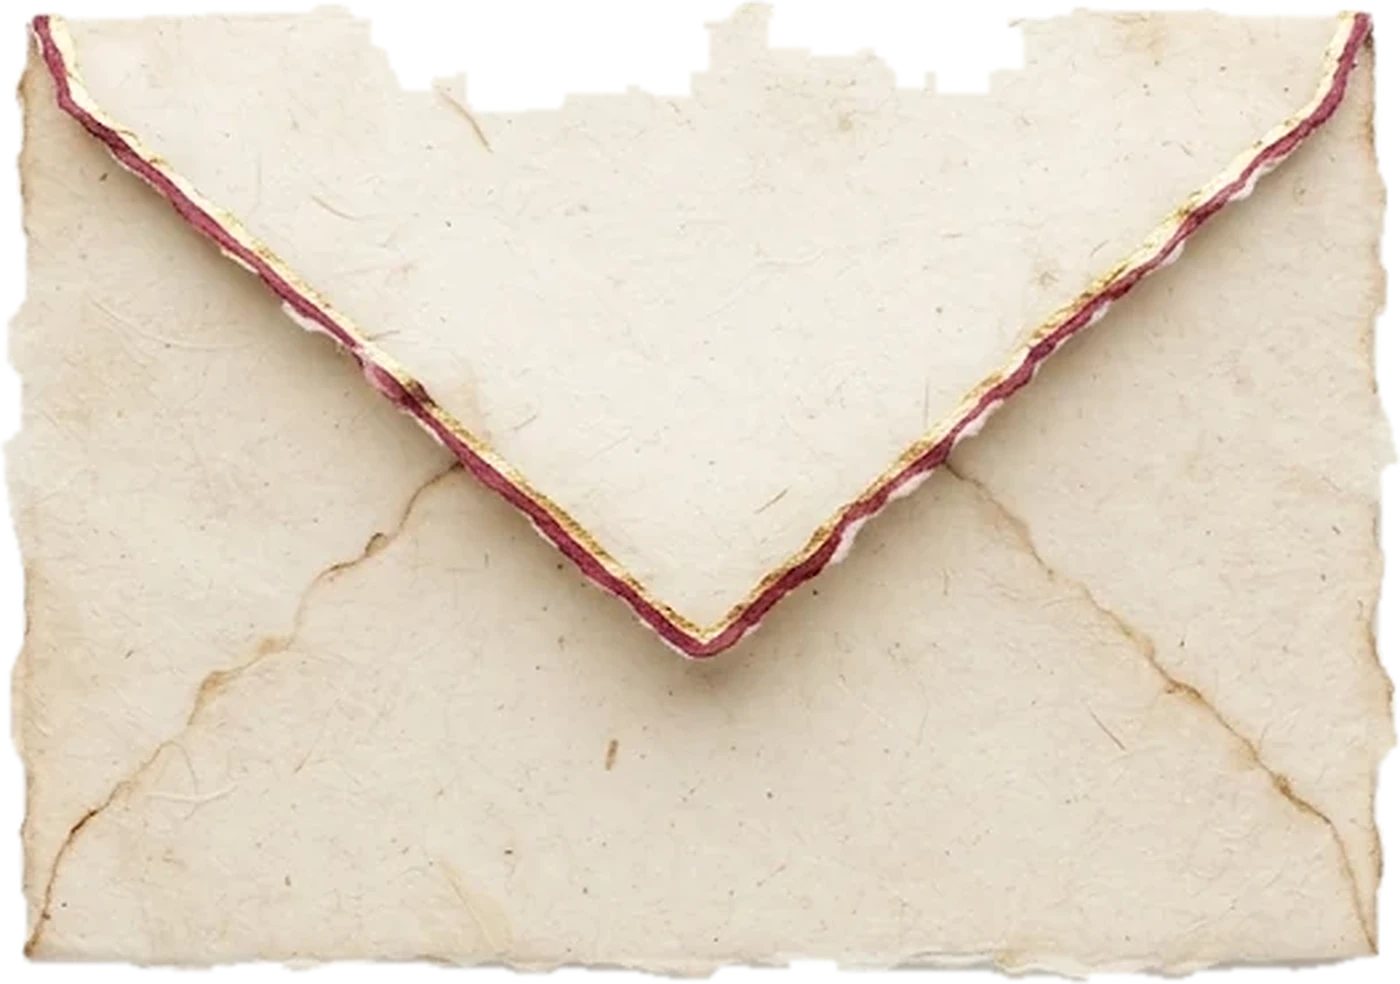
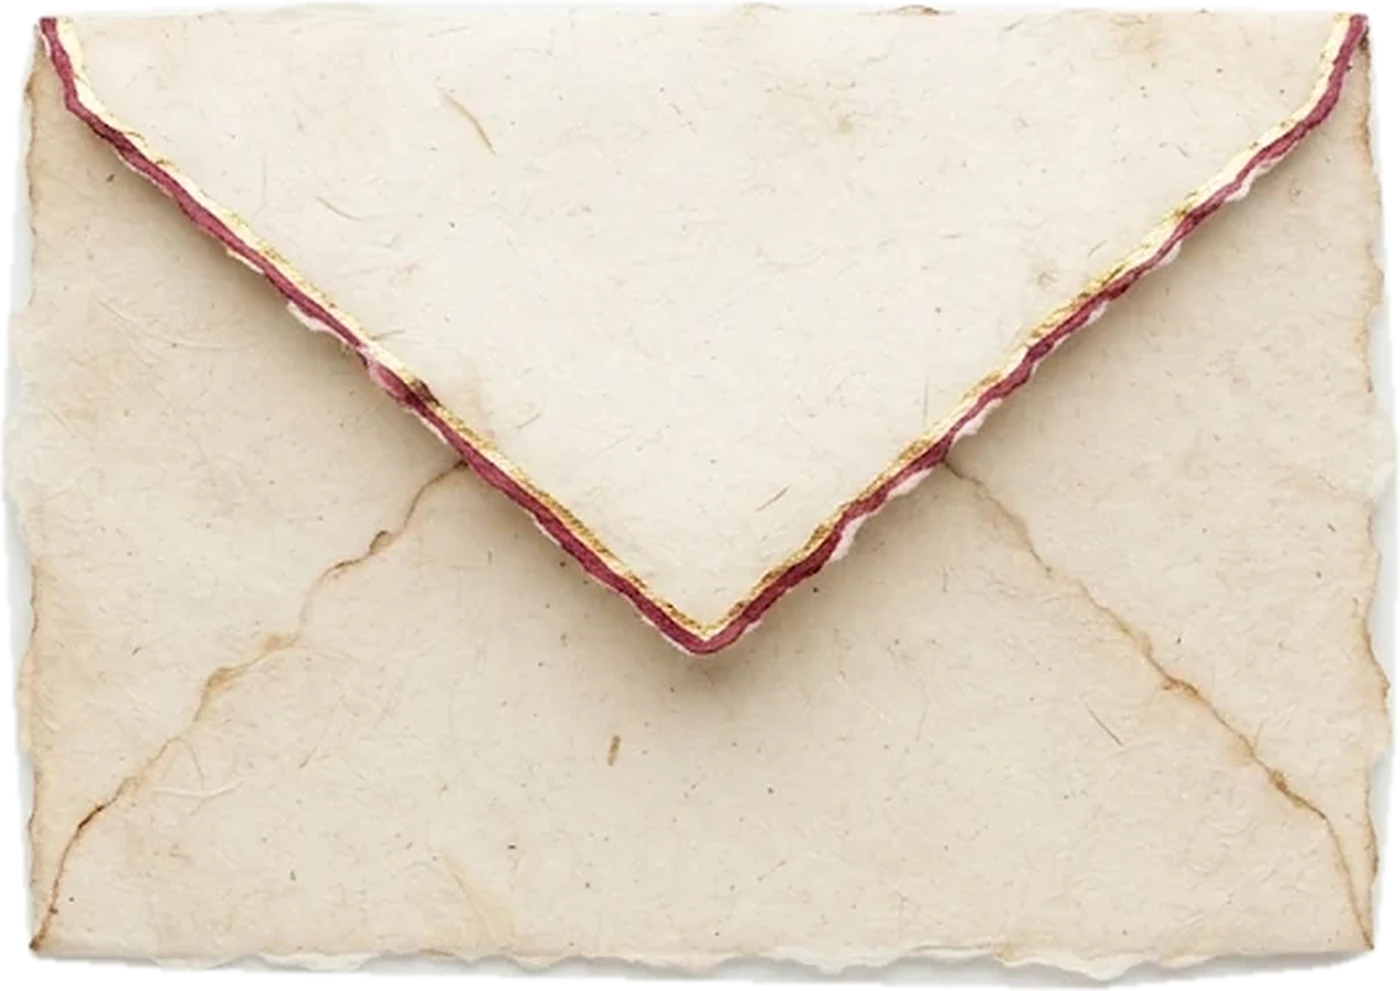
Citadelle : enveloppe de parchemin redétourée (le bord du haut n'est plus grignoté)
Claude-Session: https://claude.ai/code/session_01F2UgnuQq11Y7sRNXVNw92i

diff --git a/citadelle/faire-part.html b/citadelle/faire-part.html
@@ -42,9 +42,9 @@ body.ferme{overflow:hidden}
 
 </style>
 </head>
-<body class="ferme" data-date="2027-09-25T15:00:00+02:00" data-evenement="Mariage Aliénor &amp; Gauthier" data-ville="Périgord" data-titre-std="Aliénor &amp; Gauthier — Save the date (démonstration)" data-blocs="grappe" data-titres="grand" data-images="pleine" data-revele="zoom" data-paral="vertical" data-cadre="arche" data-prog="cartes" data-lieu="rond" data-tenue="classique" data-compte="tuiles" data-rep="ticket" data-btn="souligne" data-teinte="papier" data-collection="citadelle" data-particules="or" data-trame="carnet">
+<body class="ferme" data-date="2027-09-25T15:00:00+02:00" data-evenement="Mariage Aliénor &amp; Gauthier" data-ville="Périgord" data-titre-std="Aliénor &amp; Gauthier — Save the date (démonstration)" data-blocs="decale" data-titres="grand" data-images="pleine" data-revele="flou" data-paral="vertical" data-cadre="plein" data-prog="frise" data-lieu="classique" data-tenue="image" data-compte="ligne" data-rep="classique" data-btn="fleche" data-teinte="clair" data-collection="citadelle" data-particules="or" data-trame="carnet">
 <link rel="preload" as="image" href="ouverture.webp" fetchpriority="high">
-<div class="ouverture attente" id="ouverture" style="--ratio:1400/984;--masque:url('ouverture.webp');--rabat:polygon(0 0,100% 0,100% 3%,50% 65%,0 2%);--devant:polygon(0 2%,50% 65%,100% 3%,100% 100%,0 100%);--verso:polygon(0 100%,100% 100%,100% 97%,50% 35%,0 98%);--doublure:linear-gradient(0deg,#3A1418,#5B1E24 55%,#A8874F);">
+<div class="ouverture attente" id="ouverture" style="--ratio:1400/991;--masque:url('ouverture.webp');--rabat:polygon(0 0,100% 0,100% 3%,50% 65%,0 2%);--devant:polygon(0 2%,50% 65%,100% 3%,100% 100%,0 100%);--verso:polygon(0 100%,100% 100%,100% 97%,50% 35%,0 98%);--doublure:linear-gradient(0deg,#3A1418,#5B1E24 55%,#A8874F);">
   <div class="enveloppe" role="button" aria-label="Ouvrir l'invitation">
     <div class="env-dos"></div>
     <div class="env-carte mini"><img class="mini-deco" src="haut.webp" alt=""><small>Mariage</small><b>Aliénor</b><i>&amp;</i><b>Gauthier</b><small>25 · 09 · 2027</small></div>

diff --git a/citadelle/plan-de-table.html b/citadelle/plan-de-table.html
@@ -19,7 +19,7 @@
 
 </style>
 </head>
-<body data-blocs="grappe" data-titres="grand" data-images="pleine" data-revele="zoom" data-paral="vertical" data-cadre="arche" data-prog="cartes" data-lieu="rond" data-tenue="classique" data-compte="tuiles" data-rep="ticket" data-btn="souligne" data-teinte="papier" data-collection="citadelle" data-particules="or" data-trame="carnet">
+<body data-blocs="decale" data-titres="grand" data-images="pleine" data-revele="flou" data-paral="vertical" data-cadre="plein" data-prog="frise" data-lieu="classique" data-tenue="image" data-compte="ligne" data-rep="classique" data-btn="fleche" data-teinte="clair" data-collection="citadelle" data-particules="or" data-trame="carnet">
 <nav class="suite-nav" aria-label="La collection Citadelle"><a class="suite-marque" href="index.html">✦ Citadelle</a><div><a href="index.html">La collection</a><a href="faire-part.html">Faire-part</a><a href="faire-part.html?f=std">Save-the-date</a><a href="site.html">Site</a><a href="plan-de-table.html" aria-current=page>Plan de table</a><a href="mur-photo.html">Mur photo</a><a href="livre-or.html">Livre d&#x27;or</a></div></nav>
 
 <header class="suite-titre carte"><img class="deco-haut" src="haut.webp" alt="" width="1800" height="900"><p class="chapeau">Aliénor &amp; Gauthier · 25 · 09 · 2027</p><h1>Trouvez votre place</h1>

diff --git a/citadelle/mur-photo.html b/citadelle/mur-photo.html
@@ -19,7 +19,7 @@
 
 </style>
 </head>
-<body data-blocs="grappe" data-titres="grand" data-images="pleine" data-revele="zoom" data-paral="vertical" data-cadre="arche" data-prog="cartes" data-lieu="rond" data-tenue="classique" data-compte="tuiles" data-rep="ticket" data-btn="souligne" data-teinte="papier" data-collection="citadelle" data-particules="or" data-trame="carnet">
+<body data-blocs="decale" data-titres="grand" data-images="pleine" data-revele="flou" data-paral="vertical" data-cadre="plein" data-prog="frise" data-lieu="classique" data-tenue="image" data-compte="ligne" data-rep="classique" data-btn="fleche" data-teinte="clair" data-collection="citadelle" data-particules="or" data-trame="carnet">
 <nav class="suite-nav" aria-label="La collection Citadelle"><a class="suite-marque" href="index.html">✦ Citadelle</a><div><a href="index.html">La collection</a><a href="faire-part.html">Faire-part</a><a href="faire-part.html?f=std">Save-the-date</a><a href="site.html">Site</a><a href="plan-de-table.html">Plan de table</a><a href="mur-photo.html" aria-current=page>Mur photo</a><a href="livre-or.html">Livre d&#x27;or</a></div></nav>
 
 <header class="suite-titre carte"><img class="deco-haut" src="haut.webp" alt="" width="1800" height="900"><p class="chapeau">Aliénor &amp; Gauthier · en direct</p><h1>Le mur photo</h1>

diff --git a/citadelle/livre-or.html b/citadelle/livre-or.html
@@ -19,7 +19,7 @@
 
 </style>
 </head>
-<body data-blocs="grappe" data-titres="grand" data-images="pleine" data-revele="zoom" data-paral="vertical" data-cadre="arche" data-prog="cartes" data-lieu="rond" data-tenue="classique" data-compte="tuiles" data-rep="ticket" data-btn="souligne" data-teinte="papier" data-collection="citadelle" data-particules="or" data-trame="carnet">
+<body data-blocs="decale" data-titres="grand" data-images="pleine" data-revele="flou" data-paral="vertical" data-cadre="plein" data-prog="frise" data-lieu="classique" data-tenue="image" data-compte="ligne" data-rep="classique" data-btn="fleche" data-teinte="clair" data-collection="citadelle" data-particules="or" data-trame="carnet">
 <nav class="suite-nav" aria-label="La collection Citadelle"><a class="suite-marque" href="index.html">✦ Citadelle</a><div><a href="index.html">La collection</a><a href="faire-part.html">Faire-part</a><a href="faire-part.html?f=std">Save-the-date</a><a href="site.html">Site</a><a href="plan-de-table.html">Plan de table</a><a href="mur-photo.html">Mur photo</a><a href="livre-or.html" aria-current=page>Livre d&#x27;or</a></div></nav>
 
 <header class="suite-titre carte"><img class="deco-haut" src="haut.webp" alt="" width="1800" height="900"><p class="chapeau">Aliénor &amp; Gauthier</p><h1>Le livre d'or</h1>

diff --git a/citadelle/site.html b/citadelle/site.html
@@ -19,7 +19,7 @@
 
 </style>
 </head>
-<body data-blocs="grappe" data-titres="grand" data-images="pleine" data-revele="zoom" data-paral="vertical" data-cadre="arche" data-prog="cartes" data-lieu="rond" data-tenue="classique" data-compte="tuiles" data-rep="ticket" data-btn="souligne" data-teinte="papier" data-collection="citadelle" data-particules="or" data-trame="carnet">
+<body data-blocs="decale" data-titres="grand" data-images="pleine" data-revele="flou" data-paral="vertical" data-cadre="plein" data-prog="frise" data-lieu="classique" data-tenue="image" data-compte="ligne" data-rep="classique" data-btn="fleche" data-teinte="clair" data-collection="citadelle" data-particules="or" data-trame="carnet">
 <nav class="suite-nav" aria-label="La collection Citadelle"><a class="suite-marque" href="index.html">✦ Citadelle</a><div><a href="index.html">La collection</a><a href="faire-part.html">Faire-part</a><a href="faire-part.html?f=std">Save-the-date</a><a href="site.html" aria-current=page>Site</a><a href="plan-de-table.html">Plan de table</a><a href="mur-photo.html">Mur photo</a><a href="livre-or.html">Livre d&#x27;or</a></div></nav>
 <header class="suite-couv carte couv-carnet">
   <img class="deco-haut" src="haut.webp" alt="" width="1800" height="900">

diff --git a/citadelle/index.html b/citadelle/index.html
@@ -19,7 +19,7 @@
 
 </style>
 </head>
-<body data-blocs="grappe" data-titres="grand" data-images="pleine" data-revele="zoom" data-paral="vertical" data-cadre="arche" data-prog="cartes" data-lieu="rond" data-tenue="classique" data-compte="tuiles" data-rep="ticket" data-btn="souligne" data-teinte="papier" data-collection="citadelle" data-particules="or" data-trame="carnet">
+<body data-blocs="decale" data-titres="grand" data-images="pleine" data-revele="flou" data-paral="vertical" data-cadre="plein" data-prog="frise" data-lieu="classique" data-tenue="image" data-compte="ligne" data-rep="classique" data-btn="fleche" data-teinte="clair" data-collection="citadelle" data-particules="or" data-trame="carnet">
 <nav class="suite-nav" aria-label="La collection Citadelle"><a class="suite-marque" href="index.html">✦ Citadelle</a><div><a href="index.html" aria-current=page>La collection</a><a href="faire-part.html">Faire-part</a><a href="faire-part.html?f=std">Save-the-date</a><a href="site.html">Site</a><a href="plan-de-table.html">Plan de table</a><a href="mur-photo.html">Mur photo</a><a href="livre-or.html">Livre d&#x27;or</a></div></nav>
 
 <header class="mood-tete">
